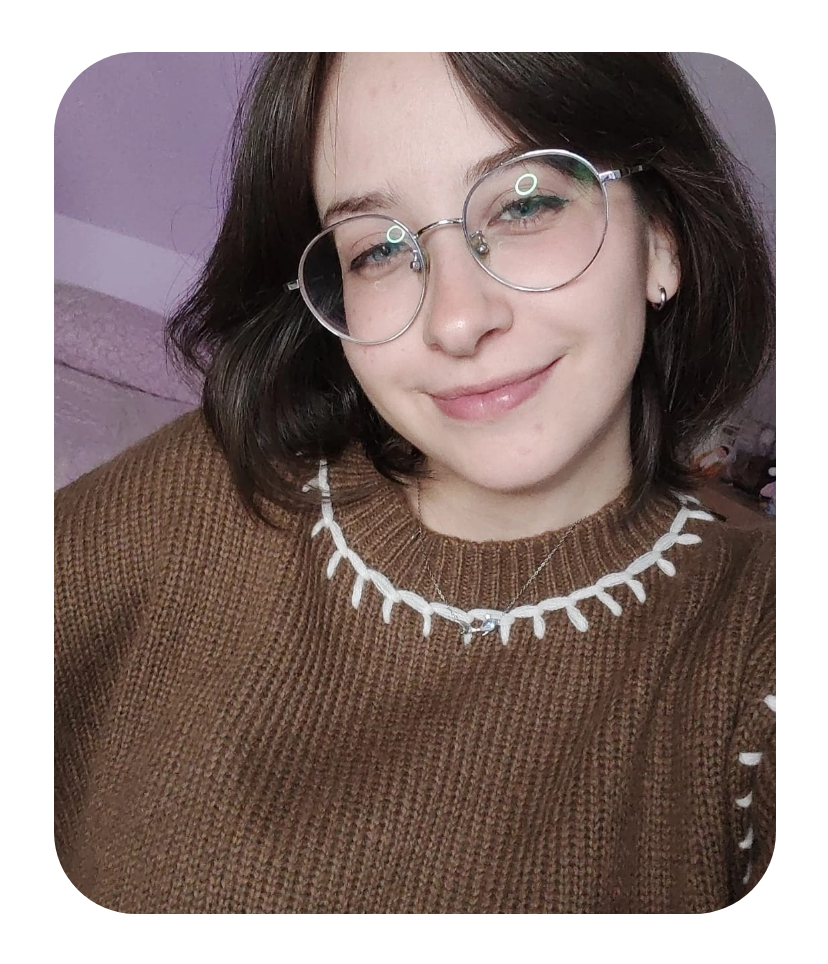
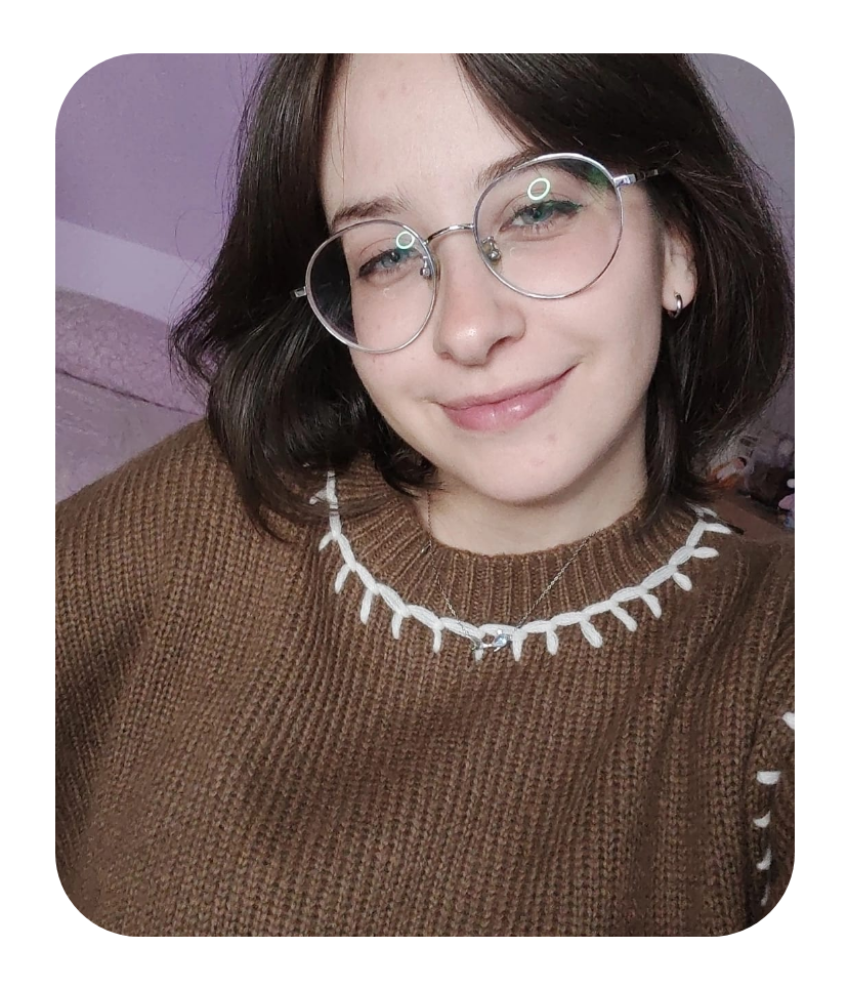
player update

diff --git a/assets/css/style.css b/assets/css/style.css
@@ -974,7 +974,6 @@
 .platform__container {
     display:grid;
     grid-template-columns:repeat(2,minmax(0,1fr));
-    gap:20px;
     width:100%;
 }
 
@@ -987,11 +986,10 @@
 }
 
 .platform__card img {
-  /* MODIFICA RESPONSIVE: 400px fisso → fluido */
-    width:100%;
-    max-width:400px;
-    height:auto;
-    display:block;
+  width: 100%;
+  max-width: 400px;   /* invece di 400px, così la colonna "sembra" più stretta visivamente */
+  height: auto;
+  display: block;
 }
 
 .platform__card .card__text {
@@ -999,7 +997,7 @@
   text-align: center;
   top: 32%;
   left: 23%;
-  font-size: clamp(14px, 2.2vw, 34px);
+  font-size: 34px;
   display: block;
   color: #FFFF;
   font-family: var(--font-grafton);
@@ -1567,7 +1565,7 @@ footer {
   justify-content: center;
   align-items: center;
   flex-direction: column;
-  padding-top: clamp(80px, 14vw, 200px); 
+  padding-top: 300px; 
 }
 
 .players h1 {
@@ -1685,15 +1683,18 @@ footer {
 .player__wrapper {
   position: relative;
   width: clamp(160px, 18vw, 300px);
-  height: auto;
-  display: flex;
-  flex-direction: column;
-  align-items: center;
-  margin-bottom: clamp(30px, 6vw, 100px); 
+  aspect-ratio: 478 / 566;   /* altezza del wrapper = altezza della cornice */
+  margin-bottom: clamp(30px, 6vw, 100px);
 }
 
 .player__wrapper .player__name {
-  font-size: clamp(12px, 1.5vw, 21px); /* MODIFICA RESPONSIVE: era 21px fisso */
+  position: absolute;
+  top: 100%;                 /* subito sotto il wrapper (= sotto la cornice) */
+  left: 0;
+  width: 100%;
+  margin-top: 16px;          /* qui regoli la distanza */
+  text-align: center;
+  font-size: clamp(12px, 1.5vw, 21px);
   font-family: var(--font-body);
   color: var(--color-player);
   font-weight: 700;
@@ -1701,7 +1702,7 @@ footer {
 }
 
 .players__container {
-  /* MODIFICA RESPONSIVE: 5 colonne fisse → responsive con auto-fill */
+
   display: grid;
   grid-template-columns: repeat(auto-fill, minmax(clamp(140px, 16vw, 260px), 1fr));
   padding: clamp(40px, 12vw, 200px);  
@@ -1711,19 +1712,24 @@ footer {
 }
 
 .player__wrapper .creator {
+  position: absolute;
   width: 100%;
-  height: auto;
-  object-fit: contain;
+  height: 100%;
+  object-fit: cover;
   display: block;
 }
 
 .player__wrapper .creator__frame {
   position: absolute;
-  top: -10px;
-  left: 0;
+  inset: 0;
   width: 100%;
   height: 100%;
+  object-fit: contain;
+  pointer-events: none;
 }
+
+
+
 
 /* Link talent (wrappa il CTA brand) */
 .link-talent {
@@ -1811,7 +1817,6 @@ footer {
   color: var(--color-dark);
   text-align: left;
   width: 90%;
-  max-width: 900px;
 }
 
 .sub__container span {
@@ -1823,7 +1828,7 @@ footer {
   font-size: clamp(22px, 3.5vw, 38px); /* era 38px fisso */
   font-family: var(--font-body);
   color: var(--color-dark);
-  padding-top: clamp(30px, 6vw, 74px); /* era 74px fisso */
+  padding-top: clamp(30px, 6vw, 22px);
 }
 
 
@@ -1853,7 +1858,8 @@ footer {
   display: flex;
   align-items: center;
   justify-content: center;
-  gap: clamp(20px, 6vw, 100px);        /* era 100px fisso */
+  width: 100%;
+  gap: clamp(20px, 6vw, 100px);      
   flex-wrap: wrap;
   color: var(--color-blue);
   font-weight: bold;
@@ -1870,6 +1876,7 @@ footer {
   padding: clamp(12px, 2vw, 17px) clamp(24px, 6vw, 80px); /* era 17px 80px fisso */
   transition: 0.3s;
   cursor: pointer;
+  display: inline-block;
 } 
 
 .btn-talents__container .btn-talent:hover {
@@ -1994,11 +2001,15 @@ footer {
   .collaboration__container h4 {
     text-align: center;
   }
+
+  .collaboration__container h4 {
+    text-align: center;
+}
 }
 
 
 /* ── MOBILE (≤ 600px) ── */
-@media (max-width: 600px) {
+@media (max-width: 900px) {
 
   .creators {
     padding-bottom: 300px;
@@ -2198,6 +2209,9 @@ footer {
     max-width: 100%;
   }
 
+  .description__team h1 {
+    margin-top: 50px;
+  }
    .btn-talents__container {
     flex-direction: column;
     gap: 16px;
@@ -2212,4 +2226,33 @@ footer {
   .tag-detail {
     font-size: 14px;
   }
+
+  .platform__card .card__text {
+    font-size: 20px;
+  }
+
+  .platform__card {
+    width: 60%;
+    margin: 0 auto;
+  }
+
+  .sub__container {
+  width: 45%;
+  text-align: left;
+}
+
+.platform__container {
+    display:grid;
+    grid-template-columns:repeat(1,minmax(0,1fr));
+    width:100%;
+}
+.discover-more img {
+  width: 300px;
+  height: 130px;
+}
+
+.collaboration__container h4 {
+
+  text-align: center;
+}
 }

diff --git a/pages/talents/Buga.html b/pages/talents/Buga.html
@@ -57,11 +57,11 @@
     </div>
 
     <div class="navbar__logo-wrapper">
-      <picture>
-        <source media="(max-width: 600px)"
-          srcset="../../images/C3%20Agency%20Logo/Simbolo/RGB/bianco-vers-blu-tran.png">
-        <img class="navbar__logo" src="../../images/elements/logo.png" alt="Logo Califano Digital">
-      </picture>
+        <picture>
+    <source media="(max-width: 600px)" srcset="../../images/C3%20Agency%20Logo/Simbolo/RGB/bianco-vers-blu-tran.png">
+    <source media="(max-width: 1400px)" srcset="../../images/C3%20Agency%20Logo/Simbolo/RGB/bianco-vers-blu-tran.png">
+    <img class="navbar__logo" src="../../images/elements/logo.png" alt="Logo Califano Digital">
+  </picture>
     </div>
 
     <div class="navbar__right-contact">
@@ -137,8 +137,8 @@
           </div>
 
           <div class="btn-talents__container">
-            <a href="">
-            <div class="btn-talent">CONTATTACI PER CAMPAGNE</div>
+            <a href="../../contact.html">
+              <div class="btn-talent">CONTATTACI PER CAMPAGNE</div>
             </a>
             <div class="btn-talent">SCARICA MEDIA KIT</div>
           </div>

diff --git a/players.html b/players.html
@@ -60,6 +60,7 @@
 <div class="navbar__logo-wrapper">
   <picture>
     <source media="(max-width: 600px)" srcset="./images/C3%20Agency%20Logo/Simbolo/RGB/bianco-vers-blu-tran.png">
+    <source media="(max-width: 1400px)" srcset="./images/C3%20Agency%20Logo/Simbolo/RGB/bianco-vers-blu-tran.png">
     <img class="navbar__logo" src="./images/elements/logo.png" alt="Logo Califano Digital">
   </picture>
 </div>

diff --git a/index.html b/index.html
@@ -93,7 +93,7 @@
     <div class="hero__headline">
       <h1>
         <span class="hero__line hero__line--main">CREATE</span>
-        <span class="hero__line hero__line--accent">COMUNICATE</span>
+        <span class="hero__line hero__line--accent">COMMUNICATE</span>
         <span class="hero__line hero__line--main">COLLABORATE</span>
       </h1>
     </div>
